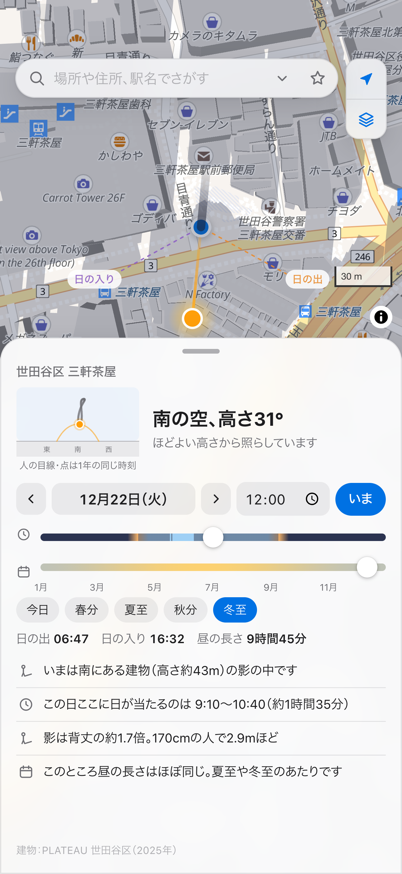
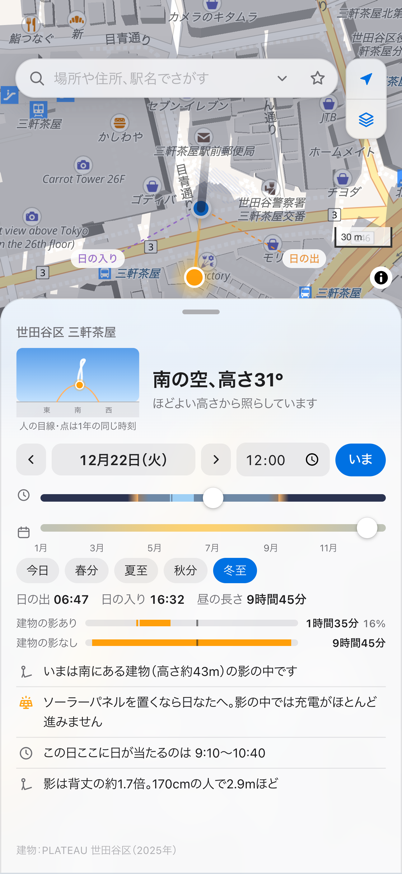
かげひなたのスクリーンショットを新しくする

diff --git a/kagehinata/index.html b/kagehinata/index.html
@@ -24,7 +24,7 @@
 
   <div class="shots">
     <img src="images/screen1.png" alt="いまの太陽と影がひと目でわかる画面">
-    <img src="images/screen2.png" alt="まわりの建物の影と、その場所に日が当たる時間帯がわかる画面">
+    <img src="images/screen2.png" alt="建物の影あり・なしで日当たりをくらべる画面">
     <img src="images/screen3.png" alt="日の出と日の入りの方角を地図で見る画面">
     <img src="images/screen4.png" alt="保存した場所の一覧">
   </div>
